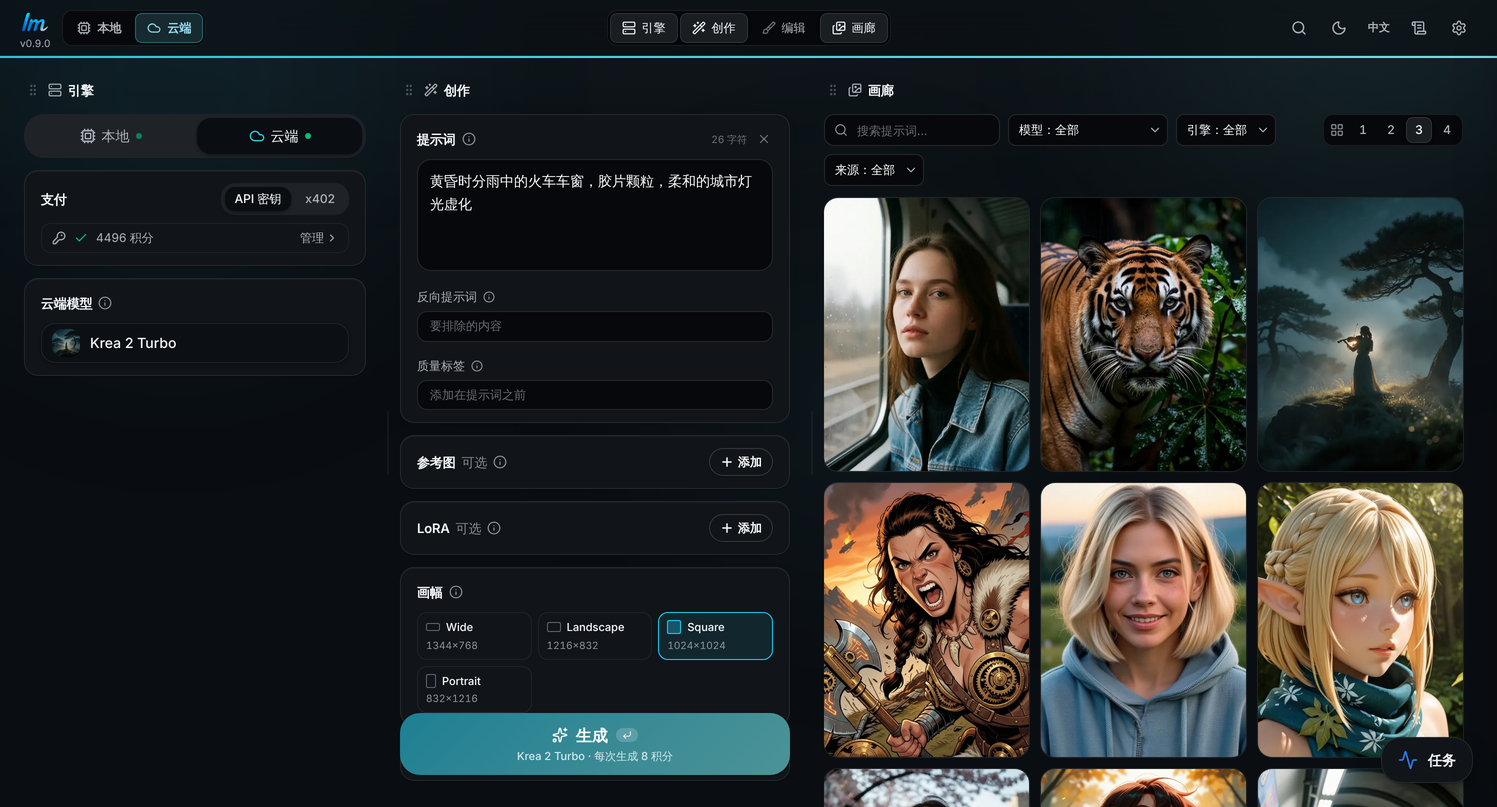
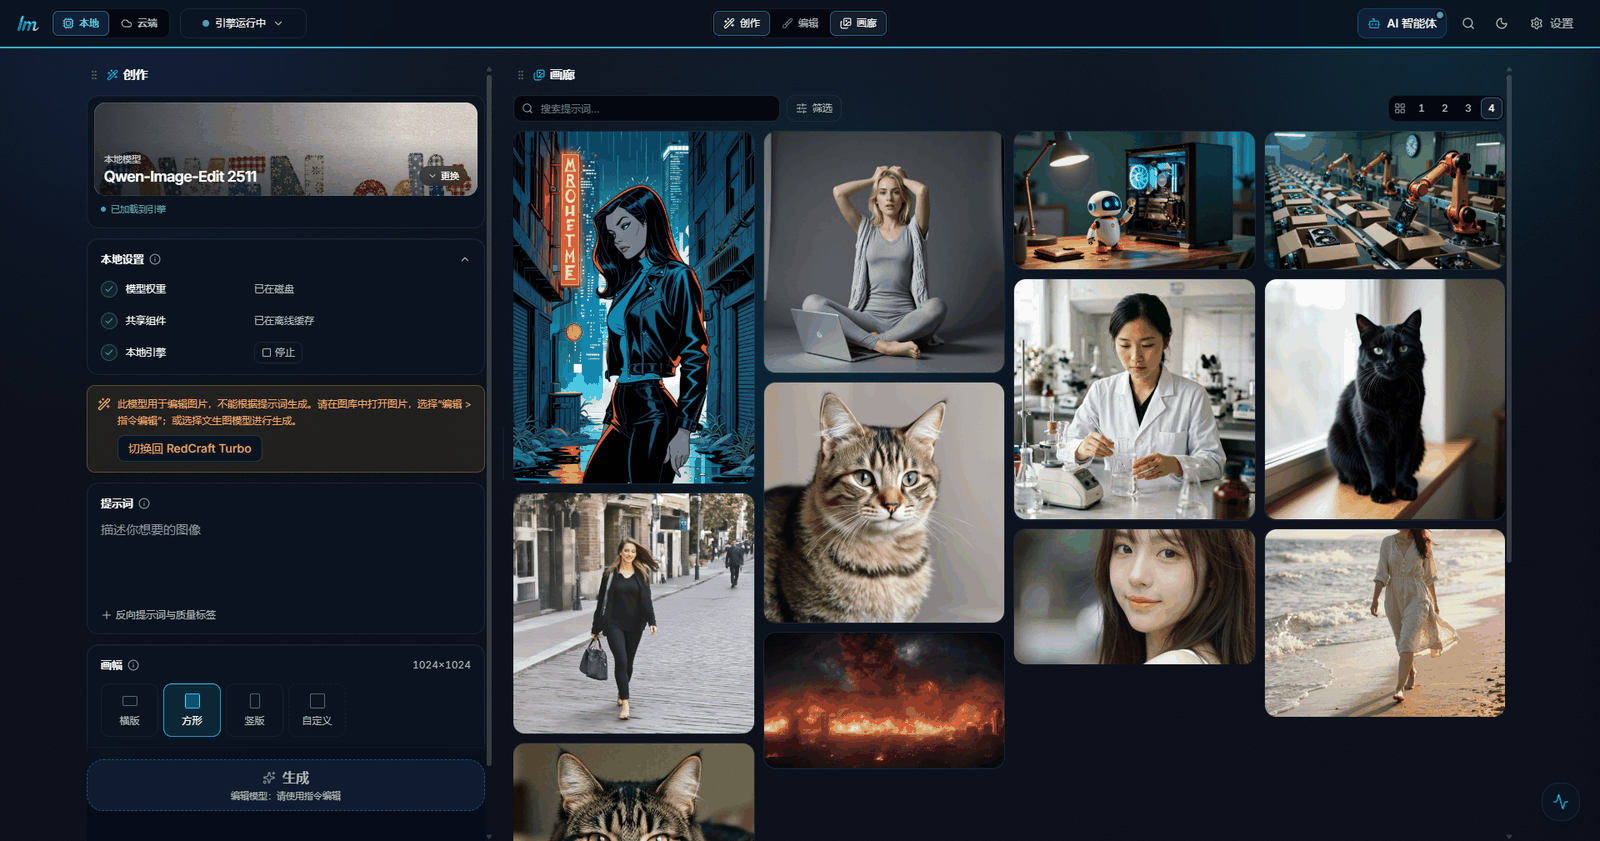
docs(readme): Chinese screenshots of the current interface

diff --git a/README.zh-CN.md b/README.zh-CN.md
@@ -30,7 +30,7 @@
 同一个界面、同一个图库、同一套工具：不用重新学习，每张图在哪里运行由你决定。
 
 <div align="center">
-<img src="docs/screenshots/cloud.png" alt="云端模式：同一个界面，一个开关" width="720" />
+<img src="docs/screenshots/cloud_zn.png" alt="云端模式：同一个界面，一个开关" width="720" />
 </div>
 
 ### ⚡ 几分钟就能出图
@@ -40,7 +40,7 @@
 无需命令行，无需折腾 CUDA。
 
 <div align="center">
-<img src="docs/screenshots/models.png" alt="模型选择" width="720" />
+<img src="docs/screenshots/models_zn.png" alt="模型选择" width="720" />
 </div>
 
 ### 🙅 无需账号
@@ -123,7 +123,7 @@
   图生图。任务可排队，生成中途也能切换模型。
 
 <div align="center">
-<img src="docs/screenshots/tools.png" alt="按指令编辑" width="720" />
+<img src="docs/screenshots/tools_zn.png" alt="按指令编辑" width="720" />
 </div>
 
 ## 系统要求
